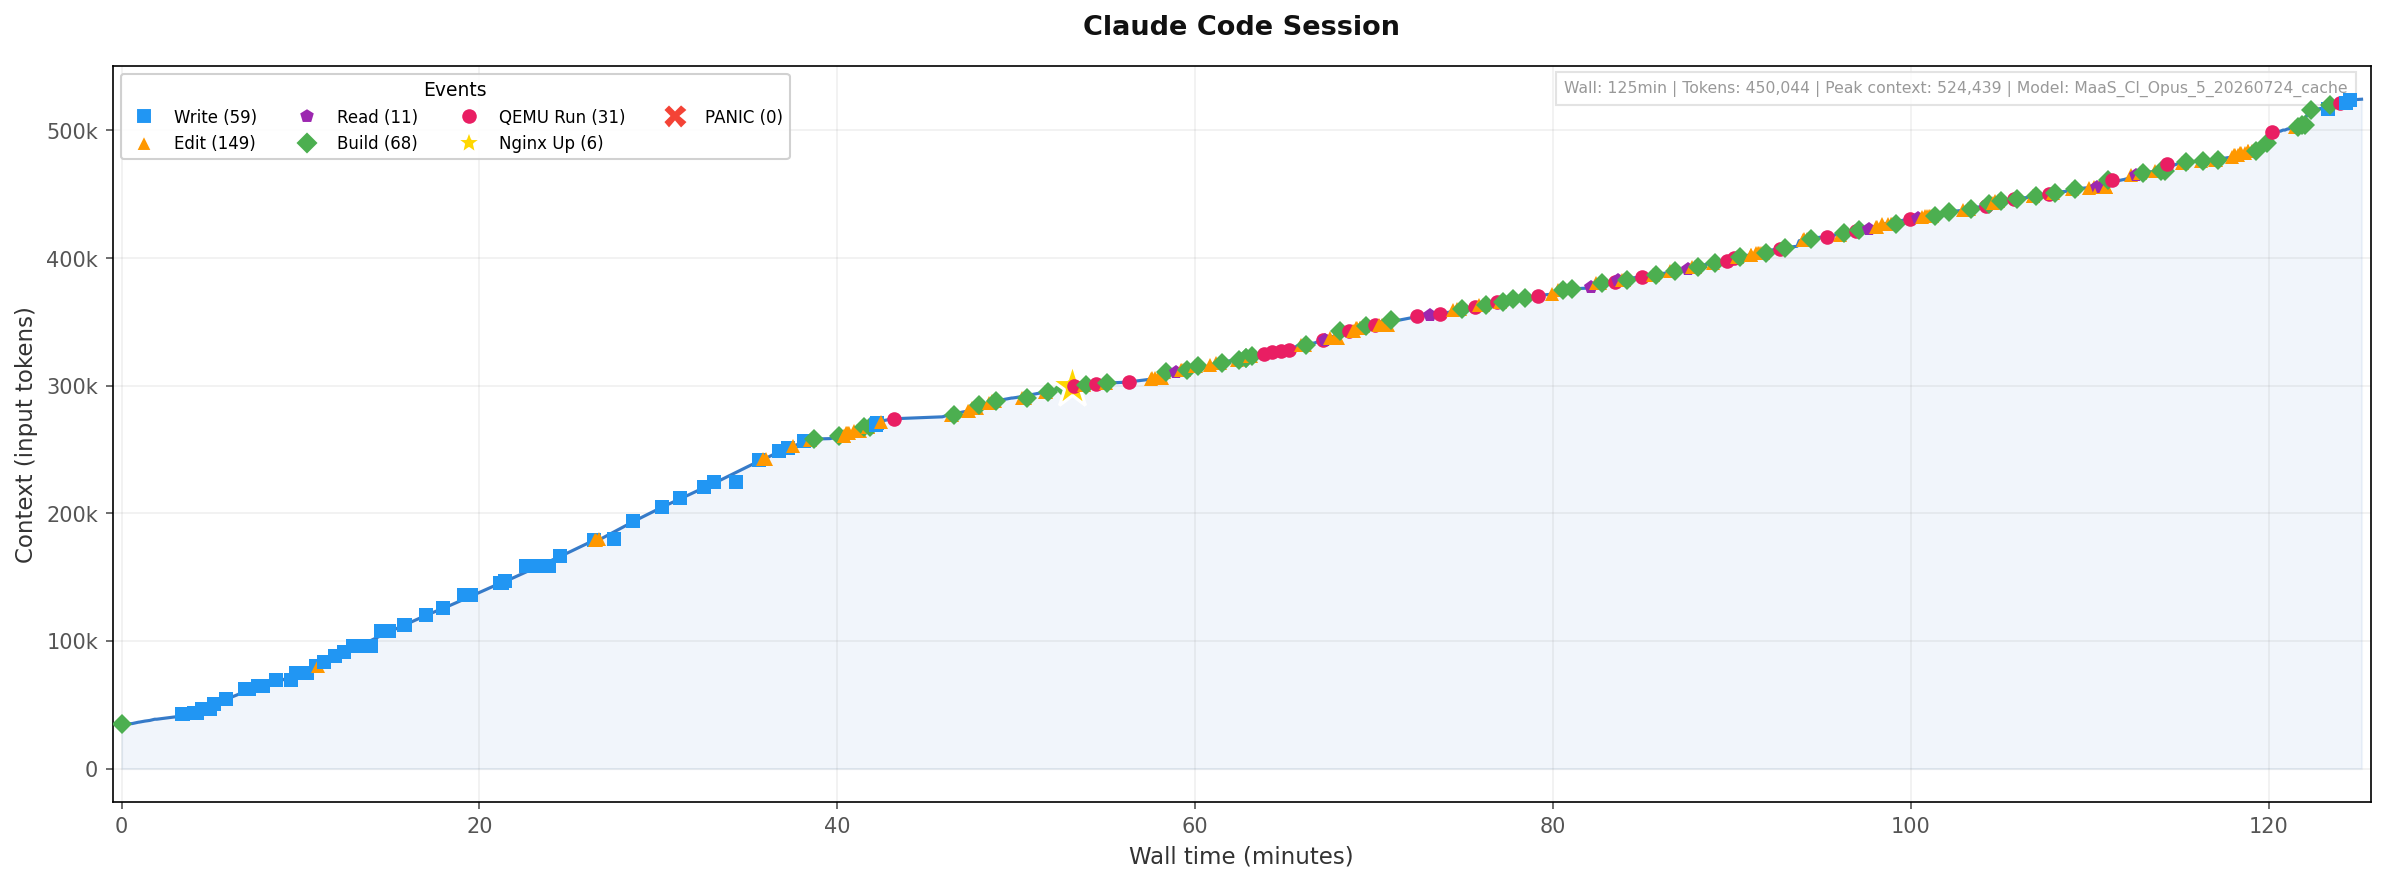
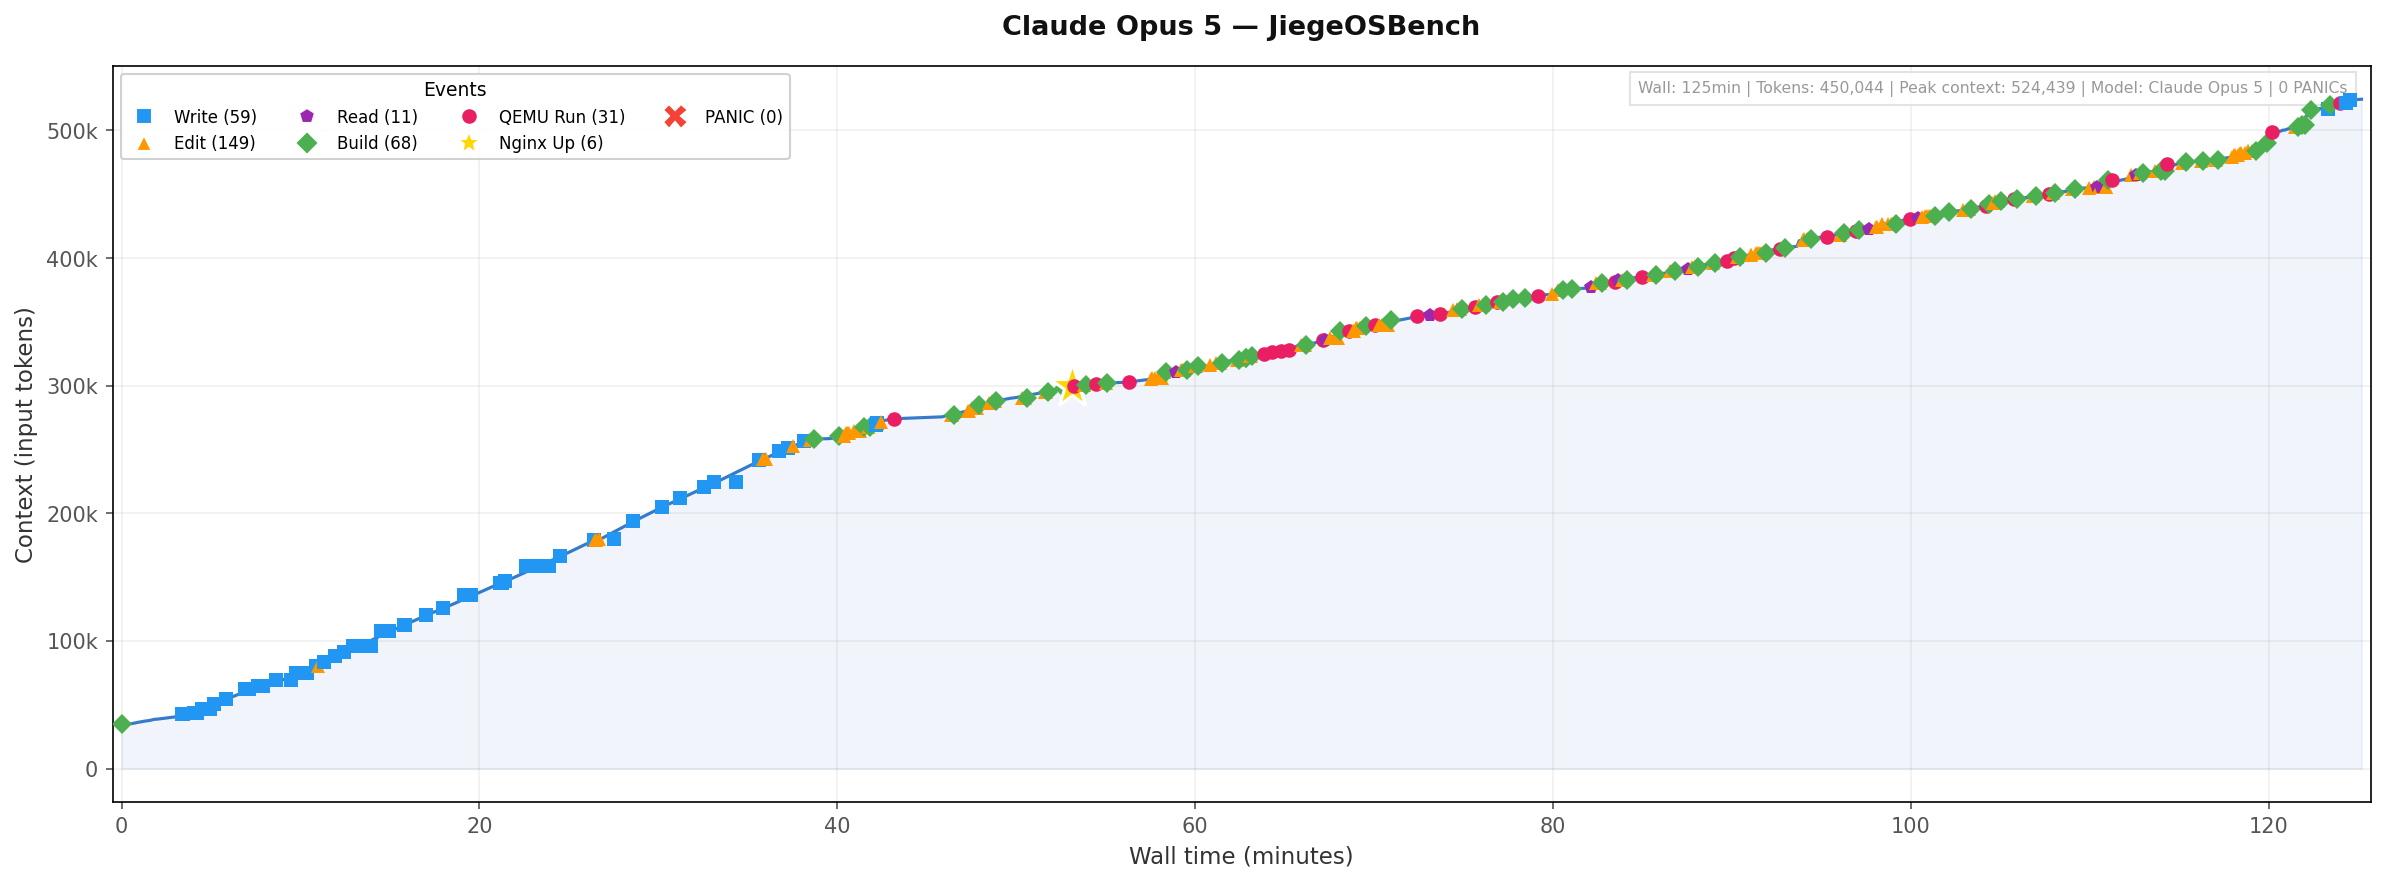
Opus 5: move above 4.7, add milestone section, fix chart model name

Changed region(s): [[0.4344, 0.0, 0.6205, 0.0612], [0.6516, 0.0917, 0.9929, 0.1223]]

diff --git a/README.md b/README.md
@@ -17,8 +17,8 @@ OS kernel from scratch — running an unmodified Linux nginx binary on QEMU, ser
 |-------|-------|----------|---------|------|--------|
 | Claude Fable 5 | Super Jiege | ~38min | ~155K | ~$21 | [fable-5](https://github.com/wangrunji0408/JiegeOSBench/tree/fable-5) |
 | GPT 5.6 Sol | Super Jiege | ~36min¹ | ~222K | ~$14 | [gpt-5.6-sol](https://github.com/wangrunji0408/JiegeOSBench/tree/gpt-5.6-sol) |
-| Claude Opus 4.7 | Smart Jiege | ~65min | — | — | [opus-4.7](https://github.com/wangrunji0408/JiegeOSBench/tree/opus-4.7) |
 | Claude Opus 5 | Smart Jiege | ~67min² | ~334K | ~$26 | [opus-5](https://github.com/wangrunji0408/JiegeOSBench/tree/opus-5) |
+| Claude Opus 4.7 | Smart Jiege | ~65min | — | — | [opus-4.7](https://github.com/wangrunji0408/JiegeOSBench/tree/opus-4.7) |
 | Kimi K3 | Smart Jiege | ~2h 19min | ~270K | ~$11 | [kimi-k3](https://github.com/wangrunji0408/JiegeOSBench/tree/kimi-k3) |
 | Claude Opus 4.6 | Smart Jiege | ~2h 46min | — | — | [opus-4.6](https://github.com/wangrunji0408/JiegeOSBench/tree/opus-4.6) |
 | GLM 5.2 | Smart Jiege | ~2h 42min | ~392K | ~$84 | [glm-5.2](https://github.com/wangrunji0408/JiegeOSBench/tree/glm-5.2) |
@@ -83,6 +83,27 @@ Claude Code ran for **~65 minutes**.
 | 00:41 | nginx config test passes |
 | 00:43 | nginx bind + listen succeeds |
 | 00:45 | nginx official binary returns HTTP 200 🎉 |
+
+### Opus 5 — 67min (stable at 125min)
+
+![Opus 5 Timeline](figures/opus5-timeline.png)
+
+Claude Code ran for **~67 minutes** to first HTTP 200, then spent another **58 minutes** fixing TCP/epoll/VirtIO edge cases until fully stable. **Zero kernel panics** — the only model to achieve this. 322 API requests. Cost approximately **$26** at the 67min mark (Opus 5 pricing: $5/$6.25/$0.50/$25 per MTok input/cache write/cache read/output). Peak context 334K.
+
+| Time | Milestone |
+|------|-----------|
+| 00:04 | Project skeleton, linker script, toolchain verified |
+| 00:37 | main.rs written — kernel core complete |
+| 00:43 | First QEMU boot: no panic, nginx starts but returns 502 |
+| 00:53 | nginx listening on port 80 (QEMU slirp network issue) |
+| 01:07 | First HTTP 200 OK 🎉 (but 2nd request fails) |
+| 01:07–01:20 | Fix dual-listener race + spurious EOF on keep-alive |
+| 01:22–01:23 | Fix RX ring free_chain corruption |
+| 01:24–01:35 | Fix smoltcp poll() early exit + TCP Nagle stall |
+| 01:36–01:47 | Fix CloseWait data loss + edge-triggered notification suppression (31,222 suppressed events) |
+| 02:00 | 3000/3000 keep-alive requests at 1185 req/s ✅ |
+| 02:01 | 50 concurrent connections + 320 fresh connections ✅ |
+| 02:05 | Final validation complete |
 
 ### Kimi K3 — 2h 19min
 

diff --git a/README-CN.md b/README-CN.md
@@ -10,8 +10,8 @@
 |------|------|------|---------|------|------|
 | Claude Fable 5 | 超级杰哥 | ~38分钟 | ~155K | ~$21 | [fable-5](https://github.com/wangrunji0408/JiegeOSBench/tree/fable-5) |
 | GPT 5.6 Sol | 超级杰哥 | ~36分钟¹ | ~222K | ~$14 | [gpt-5.6-sol](https://github.com/wangrunji0408/JiegeOSBench/tree/gpt-5.6-sol) |
-| Claude Opus 4.7 | 智能杰哥 | ~65分钟 | — | — | [opus-4.7](https://github.com/wangrunji0408/JiegeOSBench/tree/opus-4.7) |
 | Claude Opus 5 | 智能杰哥 | ~67分钟² | ~334K | ~$26 | [opus-5](https://github.com/wangrunji0408/JiegeOSBench/tree/opus-5) |
+| Claude Opus 4.7 | 智能杰哥 | ~65分钟 | — | — | [opus-4.7](https://github.com/wangrunji0408/JiegeOSBench/tree/opus-4.7) |
 | Kimi K3 | 智能杰哥 | ~2小时19分 | ~270K | ~$11 | [kimi-k3](https://github.com/wangrunji0408/JiegeOSBench/tree/kimi-k3) |
 | Claude Opus 4.6 | 智能杰哥 | ~2小时46分 | — | — | [opus-4.6](https://github.com/wangrunji0408/JiegeOSBench/tree/opus-4.6) |
 | GLM 5.2 | 智能杰哥 | ~2小时42分 | ~392K | ~$84 | [glm-5.2](https://github.com/wangrunji0408/JiegeOSBench/tree/glm-5.2) |
@@ -76,6 +76,27 @@ Claude Code 运行时长约 **65分钟**。
 | 00:41 | nginx 配置测试通过 |
 | 00:43 | nginx bind + listen 成功 |
 | 00:45 | nginx 官方 binary 返回 HTTP 200 🎉 |
+
+### Opus 5 — 67分钟（125分钟完全稳定）
+
+![Opus 5 Timeline](figures/opus5-timeline.png)
+
+Claude Code 运行约 **67 分钟**拿到首次 HTTP 200，后续又花了 **58 分钟**修复 TCP/epoll/VirtIO 边界问题直到完全稳定。**零内核 panic**——唯一做到这一点的模型。322 次 API 请求。67 分钟时成本约 **$26**（Opus 5 定价：$5/$6.25/$0.50/$25 每百万 token 输入/缓存写入/缓存读取/输出）。Context 峰值 334K。
+
+| 时间 | 里程碑 |
+|------|--------|
+| 00:04 | 项目骨架、链接脚本、工具链验证 |
+| 00:37 | main.rs 完成——内核核心就绪 |
+| 00:43 | 首次 QEMU 启动：无 panic，nginx 启动但返回 502 |
+| 00:53 | nginx 在 80 端口监听（QEMU slirp 网络问题） |
+| 01:07 | 首次 HTTP 200 OK 🎉（但第二个请求失败） |
+| 01:07–01:20 | 修复双监听器竞争 + keep-alive 虚假 EOF |
+| 01:22–01:23 | 修复 RX ring free_chain 损坏 |
+| 01:24–01:35 | 修复 smoltcp poll() 提前退出 + TCP Nagle 阻塞 |
+| 01:36–01:47 | 修复 CloseWait 数据丢失 + edge-triggered 通知抑制（31,222 次被抑制） |
+| 02:00 | 3000/3000 keep-alive 请求，1185 req/s ✅ |
+| 02:01 | 50 并发 + 320 短连接全部通过 ✅ |
+| 02:05 | 最终验证完成 |
 
 ### Kimi K3 — 2小时19分
 
